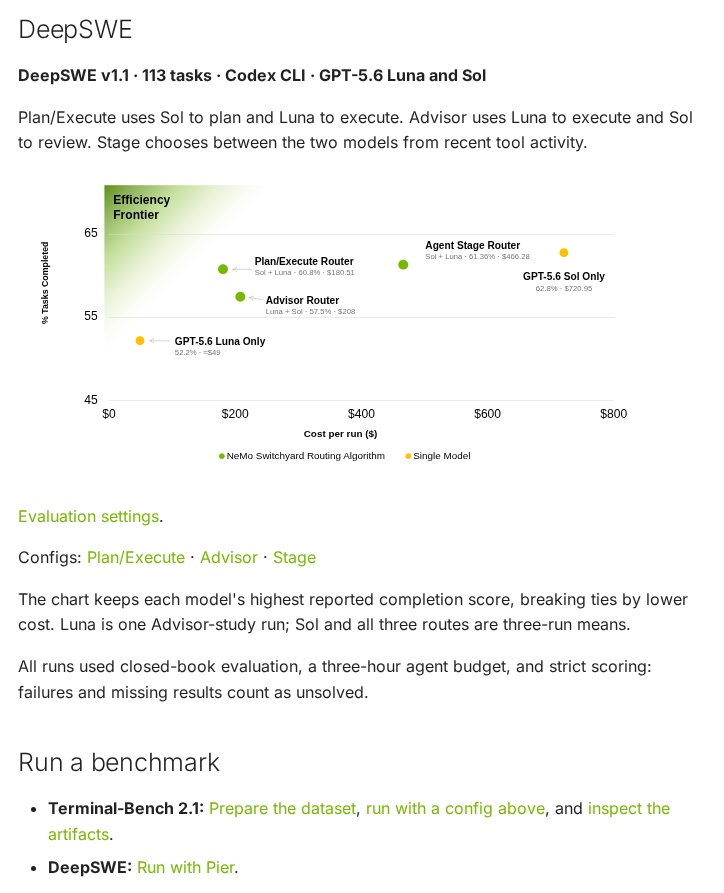
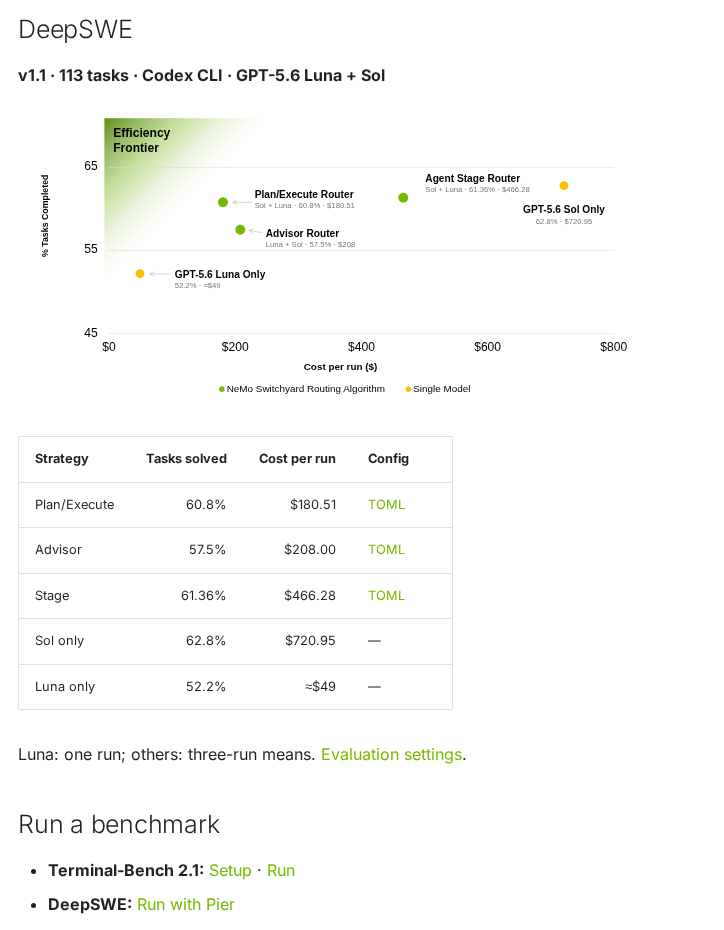
docs(benchmarks): refresh compact results preview

diff --git a/docs/benchmarks.md b/docs/benchmarks.md
@@ -1,57 +1,41 @@
 # Benchmarks
 
-Compare task completion and cost, open the routing configs, and run a benchmark with your own model endpoints.
+Task completion, cost, and runnable configs. All configs use `OPENROUTER_API_KEY`.
 
 [Terminal-Bench 2.1](#terminal-bench-21) · [DeepSWE](#deepswe) · [Run a benchmark](#run-a-benchmark)
 
-The linked configs use the current Switchyard schema and OpenRouter endpoints, including Jev.
-All use `OPENROUTER_API_KEY`. The recorded results used the original evaluation stacks.
-Changing the provider, models, or routing settings can change the outcome.
-
 ## Terminal-Bench 2.1
 
-The published comparison routes between **Claude Opus 4.8** and **GLM 5.2**, with each model
-also measured on its own. The escalation route uses **DeepSeek V4 Flash** as its judge.
+**Claude Opus 4.8 + GLM 5.2**
 
-![Terminal-Bench 2.1 task completion versus cost for LLM classification, Stage, and Escalation routing, with Opus 4.8 and GLM 5.2 baselines and a separate Jev recorded-run replay.](assets/switchyard-cost-accuracy.svg)
+![Terminal-Bench 2.1 task completion versus cost.](assets/switchyard-cost-accuracy.svg)
 
-[Published comparison and background](https://developer.nvidia.com/blog/route-ai-agent-workloads-across-models-with-nvidia-nemo-switchyard/).
-
-Configs: [Escalation](../benchmark/routing-profiles/tb21-escalation-opus-glm-deepseek.toml) ·
-[Jev task router](../benchmark/routing-profiles/tb21-jev-opus-glm.toml)
-
-The Jev point is a recorded-run replay: **73/89 tasks (82.02%)** at an estimated **$92.12**,
-including Jev calls. Jev selects one model for each task and replays its recorded outcome.
-Its evaluation setup and cost accounting differ from the other points.
-
-The replay includes **62 training tasks** and a reused **27-task test split** (Jev: 22/27;
-paired Opus baseline: 23/27). The Jev config uses a different question and endpoints; it needs
-a fresh benchmark.
+| Strategy | Tasks solved | Cost per run | Config |
+| --- | ---: | ---: | --- |
+| LLM classifier | 79.40% | $109.04 | — |
+| Stage | 79.03% | $109.81 | — |
+| Escalation | 79.80% | $122.63 | [TOML](../benchmark/routing-profiles/tb21-escalation-opus-glm-deepseek.toml) |
+| Jev (replay) | 82.02% | ≈$92.12 | [TOML](../benchmark/routing-profiles/tb21-jev-opus-glm.toml) |
+| Opus 4.8 only | 77.15% | $148.83 | — |
+| GLM 5.2 only | 74.16% | $71.31 | — |
 
 ## DeepSWE
 
-**DeepSWE v1.1 · 113 tasks · Codex CLI · GPT-5.6 Luna and Sol**
+**v1.1 · 113 tasks · Codex CLI · GPT-5.6 Luna + Sol**
 
-Plan/Execute uses Sol to plan and Luna to execute. Advisor uses Luna to execute and Sol to
-review. Stage chooses between the two models from recent tool activity.
+![DeepSWE task completion versus cost.](assets/deepswe-cost-accuracy.svg)
 
-![DeepSWE task completion versus cost for Plan/Execute (60.8%, $180.51), Advisor (57.5%, $208), Stage (61.36%, $466.28), and the best reported baselines: Sol (62.8%, $720.95) and Luna (52.2%, about $49).](assets/deepswe-cost-accuracy.svg)
+| Strategy | Tasks solved | Cost per run | Config |
+| --- | ---: | ---: | --- |
+| Plan/Execute | 60.8% | $180.51 | [TOML](../benchmark/routing-profiles/deepswe-v11-plan-execute-luna-sol.toml) |
+| Advisor | 57.5% | $208.00 | [TOML](../benchmark/routing-profiles/deepswe-v11-advisor-gate-luna-sol.toml) |
+| Stage | 61.36% | $466.28 | [TOML](../benchmark/routing-profiles/deepswe-v11-stage-router-luna-sol.toml) |
+| Sol only | 62.8% | $720.95 | — |
+| Luna only | 52.2% | ≈$49 | — |
 
-[Evaluation settings](../benchmark/DEEPSWE_V11_QUALIFICATION.md).
-
-Configs: [Plan/Execute](../benchmark/routing-profiles/deepswe-v11-plan-execute-luna-sol.toml) ·
-[Advisor](../benchmark/routing-profiles/deepswe-v11-advisor-gate-luna-sol.toml) ·
-[Stage](../benchmark/routing-profiles/deepswe-v11-stage-router-luna-sol.toml)
-
-The chart keeps each model's highest reported completion score, breaking ties by lower cost.
-Luna is one Advisor-study run; Sol and all three routes are three-run means.
-
-All runs used closed-book evaluation, a three-hour agent budget, and strict scoring:
-failures and missing results count as unsolved.
+Luna: one run; others: three-run means. [Evaluation settings](../benchmark/DEEPSWE_V11_QUALIFICATION.md).
 
 ## Run a benchmark
 
-- **Terminal-Bench 2.1:** [Prepare the dataset](../benchmark/README.md#one-time-setup),
-  [run with a config above](../benchmark/README.md#run-with-switchyard-routing), and
-  [inspect the artifacts](../benchmark/README.md#inspect-a-run).
-- **DeepSWE:** [Run with Pier](../benchmark/README.md#deepswe-v11).
+- **Terminal-Bench 2.1:** [Setup](../benchmark/README.md#one-time-setup) · [Run](../benchmark/README.md#run-with-switchyard-routing)
+- **DeepSWE:** [Run with Pier](../benchmark/README.md#deepswe-v11)
